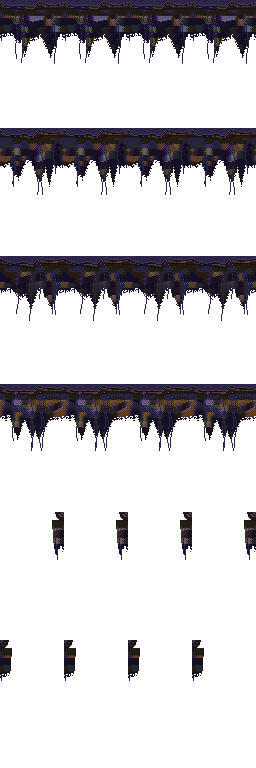
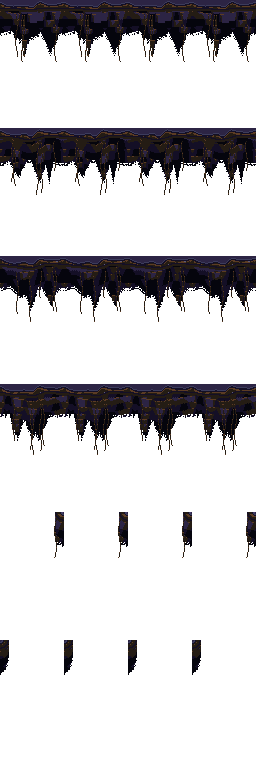
island_underside.png: the cliff in the island's colours, corners wrap under the lip (the user: match the island, no cut-off corners)
The old cliff design kept (banded face, drips, hanging roots) but drawn in the lip's Root earth, Shade, Dread and Void with a Bark ledge here and there, calm bands (no checker dither). Every column hangs from the lip's lowest pixel, so the face follows the lip; the SW / SE corners wrap under the lip's arc on a rounded profile instead of a straight cut. Same layout, all 4 acts.

diff --git a/Project_T/tools/environment_art/heartwood_grounds.html b/Project_T/tools/environment_art/heartwood_grounds.html
@@ -1811,21 +1811,50 @@ function islandLip(A, k) {
 }
 // The S side (row 0–3) and the S corners (4 SW, 5 SE), 64×128, frame f of 4.
 function islandUnderside(A, row, f) {
-  // The old cliff face under the south lip only (2026-10-07, the user: "don't like the vines, should look closer to the
-  // old design but just on the bottom"): cliff.png's banded rock, drips and hanging roots, hung just under the lip.
-  // Static (the 4 frame columns stay so the sheet layout doesn't change). The S corners keep only the cliff under the
-  // lip's arc, tapering into the corner.
-  const L = new Img(T, T * 2), piece = row < 4 ? 5 : row === 4 ? 6 : 7, v = row < 4 ? row : 0, CY = 8;
-  const face = cliffTile(A, (piece === 5 ? 3 : piece === 6 ? 2 : 1) + 4 * v);  // 3 = cliff both sides, 2 = east only, 1 = west only
-  for (let y = 0; y < T; y++) for (let x = 0; x < T; x++) {
-    if (!face.alpha(x, y)) continue;
-    if (piece === 6 && x < T - LIP_W - 2) continue;  // the corner: only under the lip's arc
-    if (piece === 7 && x > LIP_W + 1) continue;
-    const taper = piece === 6 ? Math.sqrt(clamp((x - (T - LIP_W - 2)) / (LIP_W + 2), 0, 1)) : piece === 7 ? Math.sqrt(clamp((LIP_W + 1 - x) / (LIP_W + 2), 0, 1)) : 1;
-    if (y > 8 + 50 * taper) continue;
-    L.set(x, y + CY, face.get(x, y));
+  // The old cliff design under the south lip only (2026-10-07, the user: "closer to the old design but just on the
+  // bottom"; then "make sure the color matches the rest of the island and the corners merge"): the old banded face,
+  // drips and hanging roots, but in the island's own colours (the lip's Root earth, the Night / Shade ground, Dread and
+  // Void into the dark; a Bark ledge here and there like the lip's lit edge) with calm bands, no checker dither. Each
+  // column hangs from the lip's lowest pixel, so the face follows the lip; in the corners it wraps under the lip's arc
+  // on a rounded profile instead of stopping at a straight cut. Static (4 identical frame columns keep the layout).
+  const L = new Img(T, T * 2), piece = row < 4 ? 5 : row === 4 ? 6 : 7, v = row < 4 ? row : 0, s = SEED + 950 + v * 17;
+  const top = new Img(); paintLip(top, A, piece, v);
+  const drips = [0, 1, 2, 3].map(i => [10 + hash(i, 1, s) * 44, 5 + hash(i, 2, s) * 7, 8 + hash(i, 3, s) * 20]);
+  const lens = [];
+  for (let x = 0; x < T; x++) {
+    lens[x] = 0;
+    let yl = -1;
+    for (let y = 0; y < T; y++) if (top.alpha(x, y)) yl = y;
+    if (yl < 0) continue;
+    // Corners: 0 at the arc's far end, 1 where it meets the S side; a quarter-circle profile so the face rounds off.
+    const t = piece === 6 ? clamp((x + 1 - (T - LIP_W - 2)) / (LIP_W + 2), 0, 1) : piece === 7 ? clamp((LIP_W + 2 - x) / (LIP_W + 2), 0, 1) : 1;
+    const shape = Math.sqrt(1 - (1 - t) * (1 - t));
+    let len = 22 + pnoise(x, 0, 16, s, 4) * 10;
+    for (const [cx, w, h] of drips) len = Math.max(len, 22 + h * (1 - Math.abs(x + .5 - cx) / w));
+    len *= shape;
+    lens[x] = len;
+    for (let i = 1; i <= len; i++) {
+      if (i > len - 3 && hash(x, i, s + 2) < .5) continue;  // a ragged, soft bottom
+      const y = yl + i, k = i / Math.max(len, 1);
+      let c;
+      if (i < 3) c = "#241c14";  // the lip's Root earth carries on down
+      else {
+        const band = Math.floor((i + pnoise(x, i, 16, s + 4, 4) * 6) / 7), tone = pnoise(x, band * 8, 8, s + 5, 8) - k * .55 + (band % 2 ? .06 : 0);
+        const ledge = Math.floor((i - 1 + pnoise(x, i - 1, 16, s + 4, 4) * 6) / 7) !== band;  // a band's top row
+        c = ledge && tone > .45 && hash(x >> 1, band, s + 6) < .5 ? "#5c3c24"  // Bark: a ledge catching light, like the lip's edge
+          : tone > .6 ? "#2c2444" : tone > .42 ? "#241c14" : tone > .2 ? "#140f26" : "#05050d";  // Shade, Root, Dread, Void
+      }
+      L.set(x, y, c);
+    }
   }
-  const top = new Img(); paintLip(top, A, piece, v); L.put(top);  // the lip over the cliff's top
+  for (let r = 0; r < 5; r++) {  // roots hanging out of the face (only where the face is tall enough)
+    const x = Math.floor(4 + hash(r, 1, s) * (T - 8));
+    if (lens[x] < 14) continue;
+    let yl = 0; for (let y = 0; y < T; y++) if (top.alpha(x, y)) yl = y;
+    const end = Math.min(T * 2 - 1, yl + lens[x] + 6 + hash(r, 2, s) * 12);
+    for (let y = yl + 6; y < end; y++) L.set(x + Math.round(Math.sin(y * .2 + r)), y, y % 5 ? "#241c14" : "#5c3c24");
+  }
+  L.put(top);  // the lip over the face's top
   return L;
 }
 const mixC = (a, b, t) => [a[0] + (b[0] - a[0]) * t, a[1] + (b[1] - a[1]) * t, a[2] + (b[2] - a[2]) * t, 255];

diff --git a/Project_T/documentation/environment_assets.md b/Project_T/documentation/environment_assets.md
@@ -62,7 +62,7 @@ two trees pulse in step.
 | `island_edge.png` | 1024×256 | 16 tiles, **column = neighbour mask** (N=1, E=2, S=4, W=8: which neighbours are island), **row = variant** (4; they all meet at the tile ends, the middle bulges and bites differently; the generator picks one per rim cell by a hash of the cell). The grass creeps over the inner lip in uneven tongues and the outline wobbles, so the edge never runs straight or repeats | the map's unbuildable rim (screens_ui.md): **no grass**, a sunken ledge of crumbled dark earth (value below the ground's; the pipeline checks it) whose open sides crumble and fade into the void, roots hanging off the lip, and a shadow step with overhanging grass where it meets the buildable ground; the south lip meets the cliff tops. Assumes a convex (blocky) island: no inner-corner tiles |
 | `cliff.png` | 256×256 | columns: bit 1 = the cell to the west also has cliff, bit 2 = the east does; rows: 4 variants | cliff face under island cells whose south neighbour is void; transparent below its ragged, dripping underside |
 | `island_lip.png` | 320×256 | **columns: 0 N side** (the void cell above the map), **1 E side, 2 W side, 3 NE corner, 4 NW corner** (the void cell diagonal to the map's corner); **rows: 4 variants** (the corners repeat); static | the island edge outside the grid (user's pick B, 2026-10-07; "Island edge outside the grid"): every map cell is ground, and a ~10 px lip is drawn on the void cells round the map: Root earth, its inner edge catching Bark light, soft grass-overhang tongues with a Dread shadow, rounded corners, no teeth. One wobble wrapping every 64 px is shared by every piece, so any variants join |
-| `island_underside.png` | 256×768 | **64×128 cells: columns = 4 frames (identical, static); rows 0–3 the S side variants, 4 SW corner, 5 SE corner** (placed on the void cell under the bottom row, reaching into the cell below) | the south lip with the old cliff face hung under it (the user, 2026-10-07: the vines replaced by "the old design, just on the bottom"): `cliff.png`'s banded rock, drips and hanging roots, tapering into the corners under the lip's arc. Static: the 4 frame columns are identical (kept so the layout didn't change). Replaces `island_edge` + `cliff` once Environment Code switches |
+| `island_underside.png` | 256×768 | **64×128 cells: columns = 4 frames (identical, static); rows 0–3 the S side variants, 4 SW corner, 5 SE corner** (placed on the void cell under the bottom row, reaching into the cell below) | the south lip with the old cliff design hung under it (the user, 2026-10-07: the vines replaced by "the old design, just on the bottom"): banded face, drips and hanging roots, in the island's own colours (Root earth, Shade, Dread, Void, a Bark ledge here and there); each column hangs from the lip's lowest pixel, and the corners wrap under the lip's arc on a rounded profile. Static: the 4 frame columns are identical (kept so the layout didn't change). Replaces `island_edge` + `cliff` once Environment Code switches |
 | `heartwood.png` | 512×2688 | 128×128 frames: **row = leaves lost (0–20)**, 4 frames per row; the Memory Grove's Heartwood (twisted trunk, gold-rimmed mossy bark, the Hollow's light): rot spreads through the crown, a dream-fruit darkens per 4 leaves, the rim turns ember and the Hollow fades by 20 | the goal; anchor its bottom centre about 8 px below the goal cell's bottom centre, so it overhangs the cells around it |
 | `heartwood_stage_0.png` … `heartwood_stage_3.png` | 512×2688 each | like `heartwood.png`: 128×128 frames, **row = leaves lost (0–20)**, 4 frames per row | the in-run Heartwood that mirrors the player's Memory Grove (meta_design.md "Carried into the run"): canopy stages matching `assets/meta/grove/grove_canopy_0..3.png` (young → fuller → broad → great old tree), the same 128 px frame (later stages are fuller and broader, never bigger). The Grove's crown palette in every act, shaded in 2 px blocks; Bark-to-Root wood; warm halo rim and golden Hollow. **No dream-fruit or twinkles**: the game draws a fruit per Memory and a glint per planted node. Fruit vines hang to the fruit anchors. Leaf loss: rot spreads through the crown, black leaves fall, the rim turns ember and the Hollow fades |
 | `heartwood_stages.json` | text | `frame`, `fruit_sheet`, and per stage `crown` [x0, y0, x1, y1], `fruit` (10 anchors in fill order: the fruit's centre in the 128 px frame; under the crown's belly first, centre out, then nestled in the crown) and `glints` (the lit 2 px blocks where a glint may twinkle) | read by the game to place the fruit and glints over the stage sheet. Copied as is by `process_environment.gd` |
